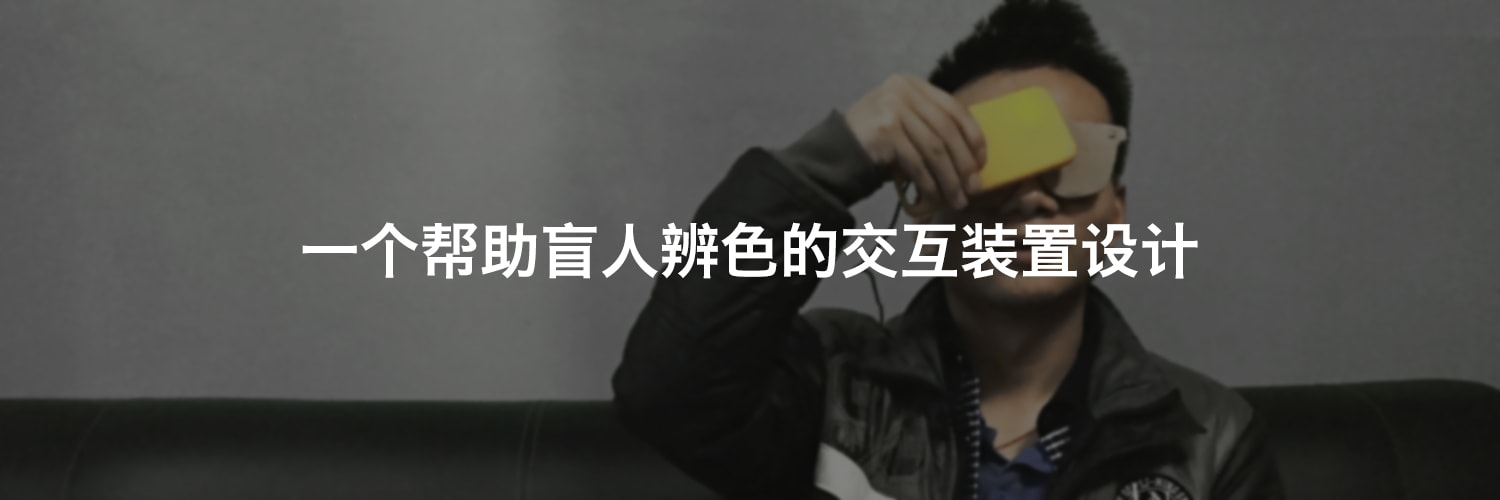
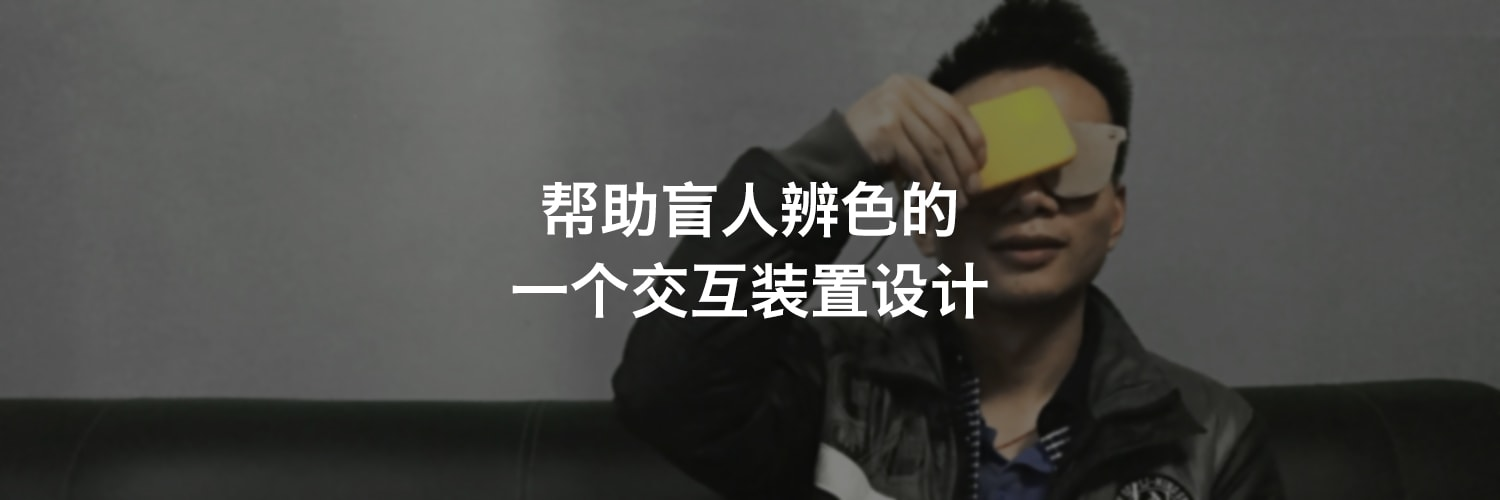
Version 2

Changed region(s): [[0.184, 0.36, 0.7973, 0.66]]

diff --git a/formplayer.html b/formplayer.html
@@ -91,7 +91,7 @@
 
           <div class="logo"><a href="index.html"><img alt="logo"  src="img/logo-cj.png"></a></div>
           <ul class="header-nav">
-            <li><a class="active" href="index.html">项目</a>
+            <li><a class="active" href="index.html">作品</a>
             </li>
             <li><a href="about-me.html">关于我</a></li>
             <li><a href="contact.html">联系</a></li>
@@ -166,7 +166,7 @@
 
                 <h3>想法</h3>
                 <p>
-                  最开始的想法来自一部纪录片 <a style="color: #222222; border-bottom: 1px dashed #353535" href="https://movie.douban.com/subject/20274060/?from=tag_all" target="_blank">Teaching to See</a>，讲述者是一位当代艺术教育领域里杰出的设计师、教育家 Inge Druckrey。在她的一个课程中，她要求学生们用5个基本形状来练习平面构成。<br>
+                  最开始的想法来自一部纪录片 <a style="color: #222222; border-bottom: 1px dashed #353535" href="https://movie.douban.com/subject/20274060/?from=tag_all" target="_blank">Teaching to See</a>，讲述者是一位当代艺术教育领域里杰出的设计师、教育家 Inge Druckrey。在她的一个课程中，她要求学生们用 5 个基本形状来练习平面构成。<br>
                   
                 </p>
                 <img src="img/full/studentworks.jpg" width="100%"><br/><br/>
@@ -179,11 +179,11 @@
 
                 <h3>目标</h3>
                 <p>
-                 这个项目的目标是<span style="font-weight: 600;">设计并编写一个简单的应用</span>来进行同样是5个形状的平面构成练习。
+                 这个项目的目标是<span style="font-weight: 600;">设计并编写一个简单的应用</span>来进行同样是 5 个形状的设计练习。
                 </p>
-                <p>这样做主要有2个原因：<br/>
-                  (1) 能自己动手尝试实现它，而不是重设计一个有很多功能的原型。<br/>
-                  (2) 能更详细地体验到设计与实现如何进行协作。 <br/></p>
+                <p>这样做主要有 2 个原因：<br/>
+                  (1) 能自己动手尝试实现它，而不是 Redesign 一个有很多功能的原型。<br/>
+                  (2) 能更详细地体验到设计与实现之间如何进行协作。 <br/></p>
                 <br/><br/>
 
                 <h3>设计</h3>
@@ -202,7 +202,7 @@
                   <span >Sketch 中的操作流程</span>
                 </p>
 
-                <p><span style="font-weight: 600;">用户界面 </span><br><a style="color: #222222; border-bottom: 1px dashed #353535" href="https://book.douban.com/subject/26350879/" target="_blank">The Best Interface Is No Interface</a>。用户界面帮助我们更好地聚焦当前的操作和更好地探索。第一版本 GUI 中的按钮，影响了对画布中平面布局的感知。最后，我使用了按键来替代按钮。
+                <p><span style="font-weight: 600;">用户界面 </span><br><a style="color: #222222; border-bottom: 1px dashed #353535" href="https://book.douban.com/subject/26350879/" target="_blank">The Best Interface Is No Interface</a>。用户界面帮助我们聚焦当前的操作，和进行更好地探索。第一版本 GUI 中的按钮，影响了对画布中平面布局的感知。所以，最终我使用了按键替代按钮作为控制操作。
                   
                 </p>
                 <img src="img/full/user-interface-v1.jpg" width="100%"><br/><br/>
@@ -218,7 +218,7 @@
 
                 <h3>实现</h3>
                 <p>
-                  根据任务分析，我编写了程序能自动随机产生5个形状，当按下空格键的时候。
+                  根据任务分析，编写的程序能自动随机地产生 5 个形状，当按下空格键的时候。
                   这样做的考虑是：<br>
                   (1) 用户能聚焦在移动和比较这两个操作上。<br>
                   (2) 程序能给我们无穷多的形状组合，帮助我们探索更多的可能性。<br>
@@ -242,7 +242,7 @@
 
                 
                 <h3>试玩</h3>
-                <p> 这是本次项目最有意思和有价值的部分。我搜集了一些自己和朋友们的试玩小作品。 
+                <p> 这是本次项目最有意思和有价值的部分。这里搜集了一些自己和朋友们的试玩小作品。 
                 </p>
                 <img src="img/full/myplay.jpg" width="100%"><br/><br/>
                 <p id="img-intro">
@@ -257,7 +257,7 @@
 
                 <h3>Gif</h3>
                 <p>
-                  设计了一个小功能：当你退出程序的时候，能将保存下来的图合成一个Gif。
+                  设计了一个小功能：当你退出程序的时候，能将保存下来的图合成一个 Gif 动图。
                   <p></p>
                   <img src="img/full/gif.gif" width="100%"><br/><br/>
                   <p id="img-intro">
@@ -268,7 +268,7 @@
 
                 <h3>未来工作</h3>
                 <p>
-                由于我有限的编程能力，本应用还有很多不足，特别是保存和比较这两个功能没能很好实现。我希望下一本能更好地实现这些功能，比如通过直接拖拽文字来查看比较保存的图。
+                由于我有限的编程能力，本应用还有很多不足，特别是保存和比较这两个功能没能很好实现设想的效果。我希望下一本能更好地实现这些功能，比如通过直接拖拽文字来查看比较保存的图。
                 <br/>
                 <div>
                     <img id="slices" src="img/full/slice1.gif">

diff --git a/colorodor.html b/colorodor.html
@@ -69,7 +69,7 @@
 
                  <div class="half-column">
                   <div class="design-thought">
-                    <p style="font-weight: 400;"><span style="color: #353535; font-weight: 600;">个人思考</span>：好的交互是一个好的工具。它能增强人的能力，给予我们观察更多事物的能力。因为有些事物不能仅靠我们自身观察到，比如我们需借用镜子，来观察自己。<br/> <br/> 
+                    <p style="font-weight: 400;"><span style="color: #353535; font-weight: 600;">个人思考</span>：好的交互是一个好的工具。它能增强人的能力，帮助我们看得更多。因为有些事物不能仅靠我们自身观察到，正如我们需借用镜子，来观察自己。<br/> <br/> 
                     <img src="img/full/see-with-tool.jpg"><br/>                 
                     <span style="color: #8d8d8d;"> We see with a tool.</span>
                   </p>
@@ -105,7 +105,7 @@
             <div class="project-detail">
                 <h3>概念构思</h3>
                 <p>
-                  经过几轮的小组讨论和相关工作调研，我们决定以嗅觉作为这次项目的出发点。因为大多的研究工作集中在触觉和听觉上，较少从嗅觉角度做探索。所以，我们的目标是帮助盲人"闻颜色"。
+                  经过几轮的小组讨论和相关工作调研，我们决定以嗅觉作为这次项目的出发点。因为以往大多数研究工作都集中在触觉和听觉上，较少从嗅觉角度做探索。所以，我们定义我们的目标是帮助盲人"闻颜色"。
                 </p>
   
                 <img src="img/full/concept.jpg" width="100%">
@@ -116,7 +116,7 @@
 
                 <h3>下一步</h3>
                 <p>
-                  紧接着重要的步骤是在盲人意识中构建颜色 — 气味的对应关系。
+                  紧接着重要的一步是在盲人的心智模型中构建颜色 — 气味的对应关系。
                 </p>
                 <img src="img/full/color-odor.jpg" width="100%">
                  <p id="img-intro" style="margin-top: -70px;">
@@ -126,7 +126,7 @@
 
                 <h3>定义对应关系</h3>
                 <p>
-                  两位盲人志愿者参与了我们的用户研究，并帮助我们定义了7种基本颜色对应的气味。之后，我们购买了一些液体化学材料，调制出这7种气味。
+                  两位盲人志愿者参与了我们的用户研究，并帮助我们定义了 7 种基本颜色对应的气味。之后，我们购买了一些液体化学材料，调制出这 7 种气味。
                    <a style="color: #222222; border-bottom: 1px dashed #353535" href="http://ovl7aedy0.bkt.clouddn.com/colorodor.pdf">(更多细节)</a>
                 </p>
                 <img src="img/full/user-research.jpg" width="100%"><br/><br/>
@@ -142,7 +142,7 @@
 
                 <h3>原型设计</h3>
                 <p>
-                 我们使用 Arduino 和 Processing 来制作原型。整个原型包含三部分：<br/>
+                 我们使用 Arduino 和 Processing 来制作整个原型。整个系统包含 3 部分：<br/>
                   (1) 捕获图像的摄像头， <br/>
                   (2) 含有颜色识别程序的笔记本电脑，<br/>
                   (3) Arduino 控制的超声波气体喷雾装置。<br/>
@@ -185,7 +185,7 @@
 
                 <h3>未来工作</h3>
                 <p>
-                  我们希望将来能把整套装置集合到一个盲人产品或者穿戴式设备上，能具体应用在盲人的生活、社交或者盲人教育领域。<br/>
+                  我们希望将来能把整套装置集合到一个盲人产品或者穿戴式设备上，具体应用在盲人的生活、社交或者盲人教育领域。<br/>
                   <p></p>
                   <img src="img/full/future-work.jpg" width="100%"><br/>
                   <p id="img-intro" style="margin-top: -70px;">
@@ -196,7 +196,7 @@
 
                 <h3>收尾</h3>
                 <p>
-                  很幸运这个项目能被 <a style="color: #222222; border-bottom: 1px dashed #353535" href="https://coding.net/s/2b25c26e-a267-4cd4-ba0b-b
+                  很幸运这个研究能被 <a style="color: #222222; border-bottom: 1px dashed #353535" href="https://coding.net/s/2b25c26e-a267-4cd4-ba0b-b
                   52f3533ba5b" target="_blank">CHI 2017 </a> Late-breaking work 录用，我也很感激在丹佛度过的快乐和有价值的与会时光。<br/>
 
                   <p></p>

diff --git a/colorodor-en.html b/colorodor-en.html
@@ -106,8 +106,8 @@
 		        <div class="project-detail">
                 <h3>Coming up with concept</h3>
                 <p>
-                  After several rounds of group discussions and related-work research, we decided to do our project based on the sense of smell, because very few research tried on this topic. Moreover,
-                  our goal is to help the blind smell colors.
+                  After several rounds of group discussions and related-work research, we decided to do our project based on the sense of smell, because only very few researches have tackled this topic in the past. Moreover,
+                  Moreover, our goal is to help the blind smell colors.
                 </p>
   
                 <img src="img/full/concept.jpg" width="100%">
@@ -128,8 +128,8 @@
 
                 <h3>Defining correspondence</h3>
                 <p>
-                  Two blind volunteers participated in our user research to help us define the odors corresponding to 7 colors.
-                  After that, we bought some liquid chemicals with similar smells as the odors. <a style="color: #222222; border-bottom: 1px dashed #353535" href="http://ovl7aedy0.bkt.clouddn.com/colorodor.pdf" target="_blank">(More details)</a>
+                  Two blind volunteers participated in our user research to help us define the odors corresponding to 7 different colors.
+                  Later on, we use liquid chemicals with similar smells to represent the odors respectively. <a style="color: #222222; border-bottom: 1px dashed #353535" href="http://ovl7aedy0.bkt.clouddn.com/colorodor.pdf" target="_blank">(More details)</a>
                 </p>
                 <img src="img/full/user-research.jpg" width="100%"><br/><br/>
                 <p id="img-intro">
@@ -197,7 +197,7 @@
 
                 <h3>Happy ending</h3>
                 <p>
-                  It was so lucky that this project was accepted by <a style="color: #222222; border-bottom: 1px dashed #353535" href="https://coding.net/s/2b25c26e-a267-4cd4-ba0b-b
+                  It was so lucky that this research was accepted by <a style="color: #222222; border-bottom: 1px dashed #353535" href="https://coding.net/s/2b25c26e-a267-4cd4-ba0b-b
                   52f3533ba5b" target="_blank">CHI 2017 </a> Late-breaking work, and I appreciated the good and valuable time in Denver.<br/>
 
                   <p></p>

diff --git a/about-me.html b/about-me.html
@@ -73,13 +73,13 @@
           <div class="two-column">
 
 
-            <p>我叫 <span style="color: #353535; font-weight: 600">陈晶</span>.<br/><br/>
+            <p>我叫<span style="color: #353535; font-weight: 600">陈晶</span>。<br/><br/>
             
             我是一名<span style="color: #353535; font-weight: 600">会编程的设计师</span>，熟悉 HTML、CSS、 Processing & Arduino。<br/>
-            本科毕业于浙江工业大学电气工程专业，目前，研究生就读于浙江大学信息产品设计专业。
+            本科毕业于浙江工业大学电气工程专业，目前，为浙江大学信息产品设计专业在读研究生。
             <br/><br/>
           受<a style="color: #8d8d8d; border-bottom: 1px dashed #353535" href="http://worrydream.com/" target="_blank">Bret Victor</a>的鼓舞，我一直追求设计更加人性的媒介来
-          <br/>来帮助人们更好地<span style="color: #353535; font-weight: 600">观察（Observe）、学习（Understand）& 创造（Invent）</span>。
+          <br/>帮助人们更好地<span style="color: #353535; font-weight: 600">观察（Observe）、学习（Understand）& 创造（Invent）</span>。
             <br/> <br/> <br/>
             <img src="img/signature.png">
 
